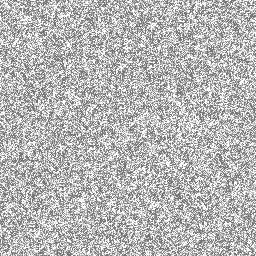
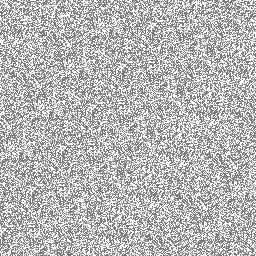
fix(app): address the first round of feedback
- Finer, softer grain with @2x and @3x tiles.
- Keep any session longer than 10 m.
- Refresh friend requests every 30 s and when the app comes back.
- Scroll the iPad session panel and use a reachable finish button.
- Let the iPad colour card wrap instead of overflowing.
- Tell an Apple refusal apart from a network error.

Changed region(s): [[0.0, 0.0, 1.0, 1.0], [0.2812, 0.8438, 0.3125, 0.875], [0.2812, 0.25, 0.3125, 0.2812]]

diff --git a/app/src/app/session.tsx b/app/src/app/session.tsx
@@ -13,7 +13,7 @@ import {
 } from 'lucide-react-native';
 import { useCallback, useState, type ReactNode } from 'react';
 import { useTranslation } from 'react-i18next';
-import { Pressable, StyleSheet, Text, View, type LayoutChangeEvent } from 'react-native';
+import { ScrollView, StyleSheet, Text, View, type LayoutChangeEvent } from 'react-native';
 import { useSafeAreaInsets } from 'react-native-safe-area-context';
 
 import { useAuth } from '@/api/auth';
@@ -36,7 +36,7 @@ import { useDayStats } from '@/session/stats';
 import { pendingSessions } from '@/session/store';
 import { fonts, useColors, type Colors } from '@/theme';
 import { useWide } from '@/ui/layout';
-import { Avatar, Figure, Glass, GlassButton, Label, ProgressBar } from '@/ui/primitives';
+import { Avatar, Button, Figure, Glass, GlassButton, Label, ProgressBar } from '@/ui/primitives';
 import { Sheet } from '@/ui/sheet';
 
 /** Height of the top bar (minimise button, journey and place) over the map. */
@@ -164,7 +164,7 @@ export default function SessionScreen() {
       >
         <View style={{ gap: 8, flexShrink: 1 }}>
           <Label>{t('session.today')}</Label>
-          <Figure value={formatKm(sessionM, 2)} unit={t('units.km')} size={wide ? 120 : 82} />
+          <Figure value={formatKm(sessionM, 2)} unit={t('units.km')} size={wide ? 100 : 82} />
         </View>
         <SpeedBlock
           wide={wide}
@@ -215,22 +215,23 @@ export default function SessionScreen() {
         <View style={{ gap: 9 }}>
           <ProgressBar ratio={walked / total} marks={marks} />
           <View style={styles.progressRow}>
-            <Text style={[styles.caption, { color: colors.textSecondary }]}>
+            <Text style={[styles.caption, { color: colors.textSecondary }]} numberOfLines={1}>
               <Text style={{ color: colors.text, fontFamily: fonts.textSemiBold }}>
                 {formatKm(walked)} {t('units.km')}
               </Text>{' '}
               {t('session.fromStart', { place: summary.start_town ?? '' })}
             </Text>
-            <Text style={[styles.caption, { color: colors.textSecondary }]}>
+            <Text
+              style={[styles.caption, styles.right, { color: colors.textSecondary }]}
+              numberOfLines={1}
+            >
               {t('session.toEnd', { place: summary.end_town ?? '', km: formatKm(total - walked) })}
             </Text>
           </View>
         </View>
       )}
       {live && (
-        <Pressable onPress={finishNow} style={[styles.finish, { borderColor: colors.border }]}>
-          <Text style={[styles.finishText, { color: colors.text }]}>{t('session.finish')}</Text>
-        </Pressable>
+        <Button tone="light" size="medium" title={t('session.finish')} onPress={finishNow} />
       )}
     </>
   );
@@ -347,7 +348,14 @@ export default function SessionScreen() {
                 },
               ]}
             >
-              {content}
+              {/* Scrolls when the tiles, the rival and the progress do not all fit. */}
+              <ScrollView
+                style={styles.panelScroll}
+                contentContainerStyle={styles.panelContent}
+                showsVerticalScrollIndicator={false}
+              >
+                {content}
+              </ScrollView>
             </View>
           )}
         </>
@@ -477,7 +485,11 @@ const styles = StyleSheet.create({
     shadowOpacity: 1,
     shadowRadius: 40,
   },
+  panelScroll: { flex: 1, marginHorizontal: -20 },
+  panelContent: { flexGrow: 1, gap: 18, paddingHorizontal: 20, paddingBottom: 22 },
+  right: { textAlign: 'right' },
   panelWide: {
+    overflow: 'hidden',
     position: 'absolute',
     right: 20,
     width: 404,
@@ -514,13 +526,4 @@ const styles = StyleSheet.create({
   tileLabel: { fontFamily: fonts.textMedium, fontSize: 12.5 },
   progressRow: { flexDirection: 'row', justifyContent: 'space-between', gap: 8 },
   caption: { fontFamily: fonts.text, fontSize: 12.5, fontVariant: ['tabular-nums'], flexShrink: 1 },
-  finish: {
-    alignSelf: 'center',
-    paddingHorizontal: 18,
-    height: 38,
-    borderRadius: 999,
-    borderWidth: 1,
-    justifyContent: 'center',
-  },
-  finishText: { fontFamily: fonts.textSemiBold, fontSize: 14 },
 });

diff --git a/app/src/app/(tabs)/profile.tsx b/app/src/app/(tabs)/profile.tsx
@@ -378,7 +378,7 @@ function ColorCard({ user, wide }: { user: UserProfile; wide?: boolean }) {
     </View>
   );
   const moods = wide ? (
-    <View style={{ width: 300 }}>
+    <View style={styles.moodTabs}>
       <Tabs
         options={MOODS.map((m) => ({ value: m, label: t(`profile.moods.${m}`) }))}
         value={user.map_mood}
@@ -403,9 +403,9 @@ function ColorCard({ user, wide }: { user: UserProfile; wide?: boolean }) {
         </Text>
       </View>
       {wide ? (
-        <View style={styles.moodRow}>
+        <View style={[styles.moodRow, styles.wrap]}>
           {swatches}
-          <View style={styles.row}>
+          <View style={[styles.row, styles.moodPick]}>
             <Text style={[styles.label, { color: colors.textSecondary }]}>{t('profile.map')}</Text>
             {moods}
           </View>
@@ -609,6 +609,10 @@ const styles = StyleSheet.create({
     alignItems: 'center',
     justifyContent: 'center',
   },
+  // Wraps under the swatches when the column is too narrow for both.
+  wrap: { flexWrap: 'wrap', rowGap: 16 },
+  moodPick: { flexGrow: 1, flexShrink: 1, minWidth: 260, maxWidth: 380 },
+  moodTabs: { flex: 1 },
   moodRow: { flexDirection: 'row', alignItems: 'center', justifyContent: 'space-between', gap: 12 },
   label: { fontFamily: fonts.textMedium, fontSize: 15 },
   link: { fontFamily: fonts.textSemiBold, fontSize: 14 },

diff --git a/app/src/app/_layout.tsx b/app/src/app/_layout.tsx
@@ -5,12 +5,13 @@ import {
   Inter_700Bold,
 } from '@expo-google-fonts/inter';
 import { SpaceGrotesk_500Medium, SpaceGrotesk_700Bold } from '@expo-google-fonts/space-grotesk';
-import { QueryClient, QueryClientProvider } from '@tanstack/react-query';
+import { focusManager, QueryClient, QueryClientProvider } from '@tanstack/react-query';
 import { useFonts } from 'expo-font';
 import { Stack } from 'expo-router';
 import * as SplashScreen from 'expo-splash-screen';
 import { StatusBar } from 'expo-status-bar';
 import { useEffect, useState } from 'react';
+import { AppState } from 'react-native';
 
 import { AuthProvider, useAuth } from '@/api/auth';
 import '@/i18n';
@@ -19,6 +20,14 @@ import { SessionProvider } from '@/session/session-context';
 import { useColors } from '@/theme';
 
 SplashScreen.preventAutoHideAsync();
+
+// Coming back to the app refreshes what is on screen (friend requests, feed...).
+focusManager.setEventListener((setFocused) => {
+  const subscription = AppState.addEventListener('change', (state) =>
+    setFocused(state === 'active'),
+  );
+  return () => subscription.remove();
+});
 
 export default function RootLayout() {
   const [queryClient] = useState(

diff --git a/app/src/app/welcome.tsx b/app/src/app/welcome.tsx
@@ -55,8 +55,11 @@ export default function WelcomeScreen() {
     } catch (e) {
       if (e instanceof ApiError)
         setError(t(`errors.${e.code}`, { defaultValue: t('errors.generic') }));
-      else if ((e as { code?: string }).code !== 'ERR_REQUEST_CANCELED')
-        setError(t('errors.network'));
+      else if ((e as { code?: string }).code === 'ERR_REQUEST_CANCELED') return;
+      // Apple refused before reaching Cap: say so, not that the server is down.
+      else if ((e as { code?: string }).code?.startsWith('ERR_'))
+        setError(t('welcome.appleFailed'));
+      else setError(t('errors.network'));
     } finally {
       setBusy(false);
     }

diff --git a/app/src/tokens.ts b/app/src/tokens.ts
@@ -269,9 +269,9 @@ export const blur = { glass: 24, chip: 14 };
 
 /** Paper grain: multiplied by day, screened at night, overlaid on orange. */
 export const grain = {
-  background: { light: [0.1, 'multiply'], dark: [0.16, 'screen'] },
-  picture: { light: [0.16, 'multiply'], dark: [0.12, 'screen'] },
-  accent: { light: [0.28, 'overlay'], dark: [0.28, 'overlay'] },
+  background: { light: [0.05, 'multiply'], dark: [0.07, 'screen'] },
+  picture: { light: [0.08, 'multiply'], dark: [0.06, 'screen'] },
+  accent: { light: [0.16, 'overlay'], dark: [0.16, 'overlay'] },
 } as const;
 
 /** Medal metals: three stop gradient (light, mid, deep) and engraving colour. */

diff --git a/app/src/session/recorder.ts b/app/src/session/recorder.ts
@@ -5,8 +5,8 @@ import type { TreadmillData } from '@/treadmill/ftms';
 export const STOP_AFTER_MS = 90_000;
 /** One point of the speed curve every this many milliseconds. */
 const SAMPLE_EVERY_MS = 15_000;
-/** Shorter sessions are treated as accidental and dropped. */
-export const MIN_DISTANCE_M = 50;
+/** Shorter sessions are a belt nudged by accident and are dropped; anything walked counts. */
+export const MIN_DISTANCE_M = 10;
 
 /** Everything needed to resume a session after the app was killed. */
 export type LiveSnapshot = {

diff --git a/app/src/api/queries.ts b/app/src/api/queries.ts
@@ -134,9 +134,12 @@ export function useDeleteJourney() {
   });
 }
 
+/** Friends and requests, checked again every half minute and on each screen that shows them. */
 export function useFriends() {
   return useQuery({
     queryKey: keys.friends,
+    refetchInterval: 30_000,
+    refetchOnMount: 'always',
     ...cached('friends', () => api<FriendList>('/friends')),
   });
 }
